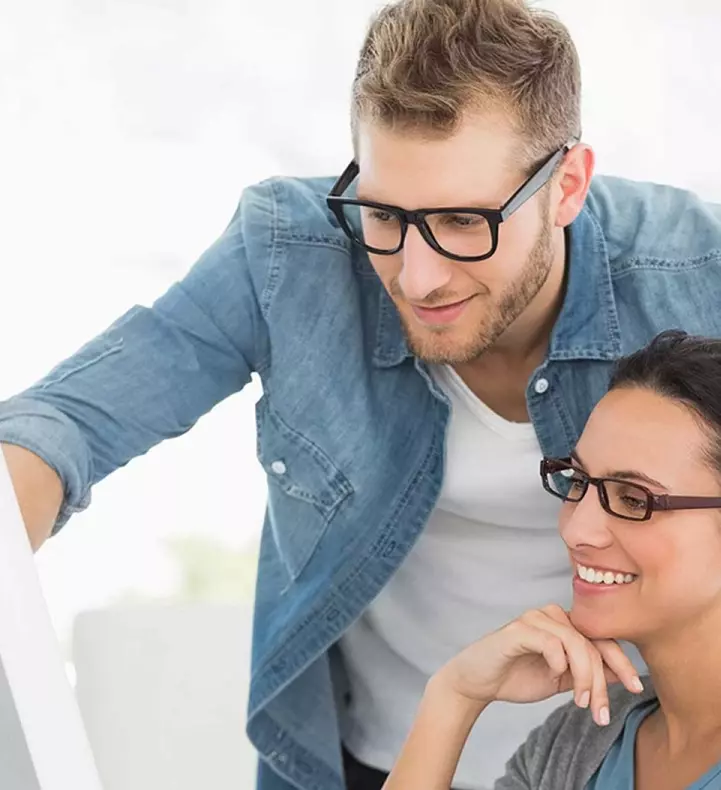
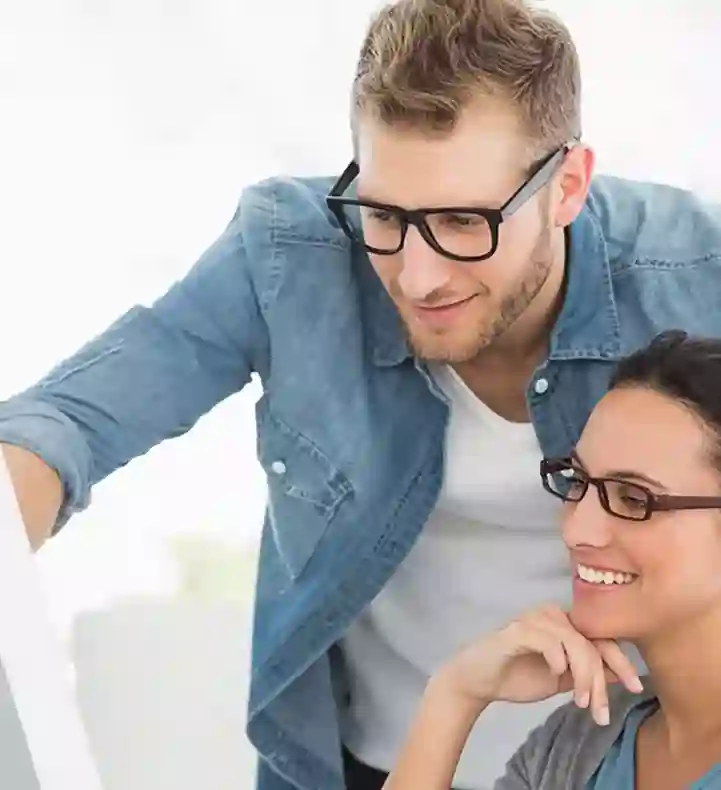
feat: make main image smaller

diff --git a/index.html b/index.html
@@ -110,15 +110,9 @@
             </div>
           </div>
           <div class="main-block__image _ibg">
-            <!-- <img
-              src="./img/mainblock/cover.webp"
-              alt="Team of accounting professionals discussing financial strategies in a meeting room"
-              loading="lazy"
-            /> -->
-
             <img
-              src="./img/mainblock/cover.webp"
-              srcset="./img/mainblock/cover-mobile.webp"
+              src="./img/mainblock/cover-mobile.webp"
+              srcset="./img/mainblock/cover.webp"
               alt="Team of accounting professionals discussing financial strategies in a meeting room"
               loading="lazy"
             />
